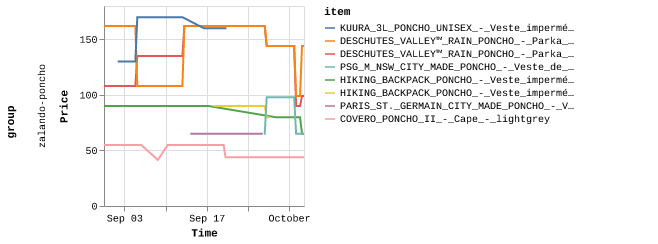
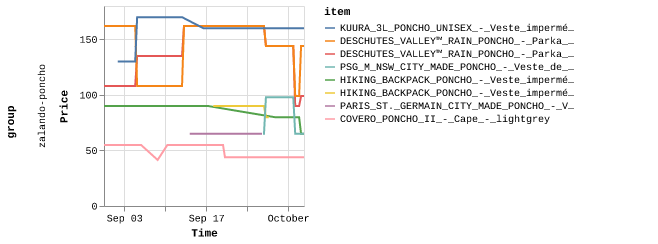
Latest scraping prices: Tue Oct  3 16:50:46 UTC 2023

diff --git a/scrapes/prices/zalando-poncho-KUURA_3L_PONCHO_UNISEX_-_Veste_imperméable_-_green.md b/scrapes/prices/zalando-poncho-KUURA_3L_PONCHO_UNISEX_-_Veste_imperméable_-_green.md
@@ -1,0 +1,3 @@
+€ 159,95
+
+[Source](https://fr.zalando.be/homme/?q=poncho+imperm%C3%A9able&sold_by_zalando=true)
